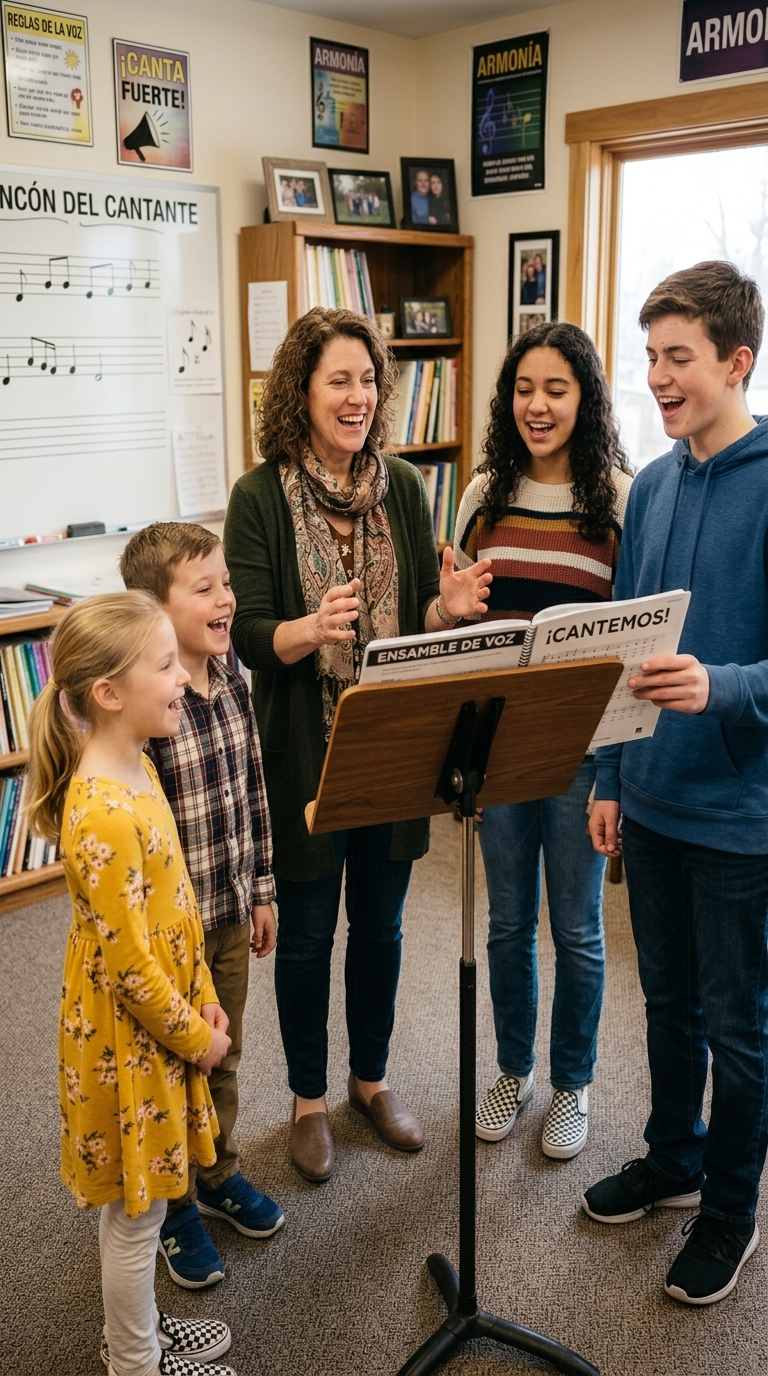
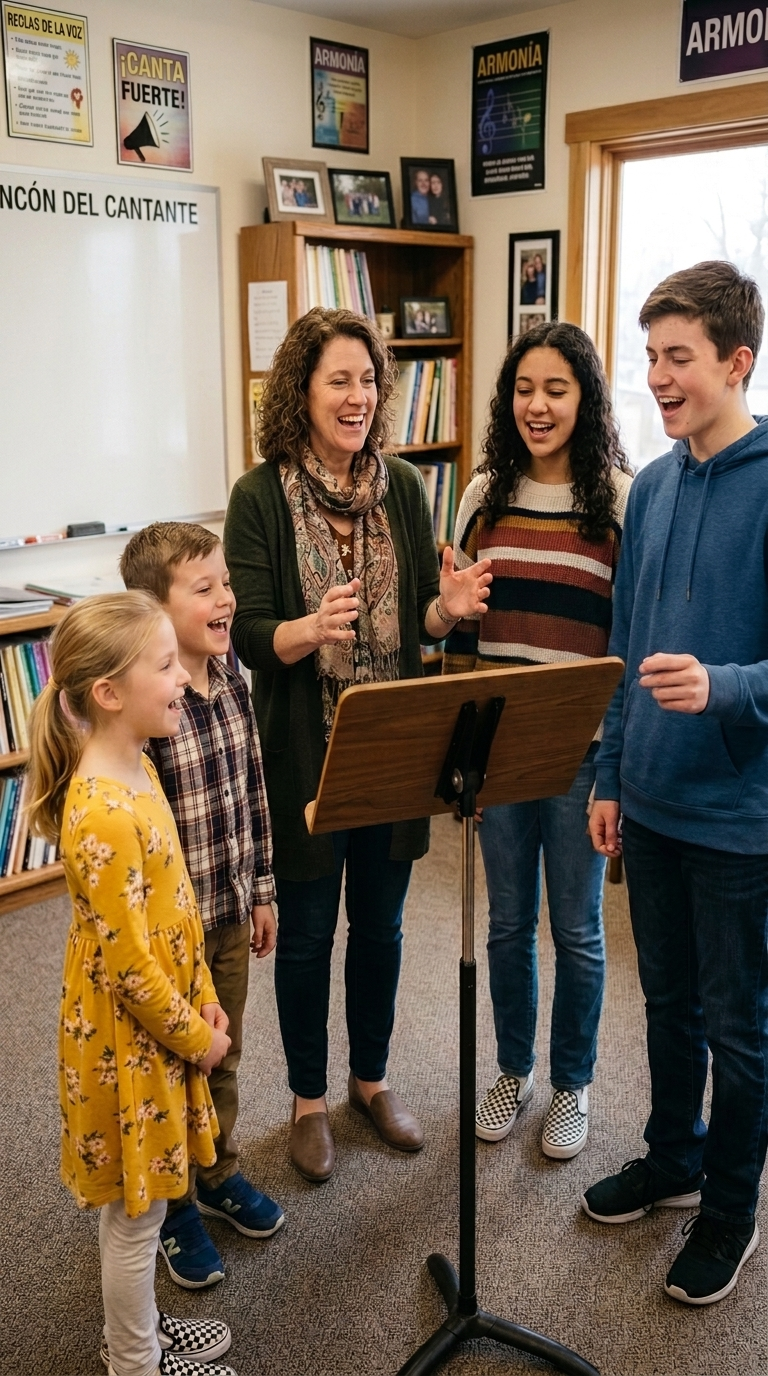
detalles visuales e informativos

diff --git a/index.html b/index.html
@@ -423,6 +423,35 @@
             line-height: 1.4;
         }
 
+        .method-image-wrap {
+            margin-top: 36px;
+            position: relative;
+            max-width: 480px;
+        }
+
+        .method-image-wrap::before {
+            content: "";
+            position: absolute;
+            inset: 12px -12px -12px 12px;
+            background: var(--turquesa);
+            border-radius: 4px;
+            z-index: 0;
+            transform: rotate(-1.5deg);
+        }
+
+        .method-image {
+            position: relative;
+            z-index: 1;
+            width: 100%;
+            height: auto;
+            aspect-ratio: 16/9;
+            object-fit: cover;
+            border-radius: 4px;
+            background: var(--fucsia);
+            transform: rotate(1deg);
+            border: 3px solid var(--petroleo);
+        }
+
         /* ---------- Testimonials ---------- */
         .testi-grid {
             display: grid;
@@ -756,6 +785,12 @@
                 font-size: 17px;
             }
 
+            .method-image-wrap {
+                margin-top: 24px;
+                margin-bottom: 24px;
+                max-width: 100%;
+            }
+
             .price-card.featured::before {
                 right: -30px;
                 top: 18px;
@@ -810,10 +845,10 @@
         <div class="wrap">
             <p class="statement-text"
                 style="font-family: 'Playfair Display', serif; font-size: clamp(24px, 3.5vw, 38px); font-style: italic; font-weight: 500; line-height: 1.5; color: var(--petroleo); max-width: 960px; margin: 0 auto; letter-spacing: -0.01em;">
-                “Tres meses transformadores que van a cambiar tu manera de pensar en el <span
+                Tres meses transformadores que van a cambiar tu manera de pensar en el <span
                     style="color: var(--fucsia); font-style: normal; font-weight: 600;">canto</span>, en las <span
                     style="color: var(--violeta); font-style: normal; font-weight: 600;">infancias</span> y en nuestro
-                vínculo con el <span style="color: var(--turquesa); font-style: normal; font-weight: 600;">arte</span>.”
+                vínculo con el <span style="color: var(--turquesa); font-style: normal; font-weight: 600;">arte</span>.
             </p>
         </div>
     </section>
@@ -870,12 +905,16 @@
                 <span class="eyebrow">Método de cursada</span>
                 <h2 class="h-lg">Encuentros en vivo, con acceso de por vida al material</h2>
                 <p class="sub">Una formación pensada para quien ya está dando clases y necesita sumar estructura, sin
-                    abandonar sus otros compromisos.</p>
+                    abandonar sus otros compromisos. <strong>Podés cursarla de forma sincrónica o 100% asincrónica, a tu
+                        propio ritmo.</strong></p>
+                <div class="method-image-wrap">
+                    <img src="img/cursada.jpeg" alt="Detalles de la cursada" class="method-image">
+                </div>
             </div>
             <div class="method-card">
                 <div class="method-row">
                     <dt>Formato</dt>
-                    <dd>Sincrónico por MS Teams</dd>
+                    <dd>Sincrónico (en vivo por MS Teams) o Asincrónico (a tu propio ritmo)</dd>
                 </div>
                 <div class="method-row">
                     <dt>Día y hora</dt>
